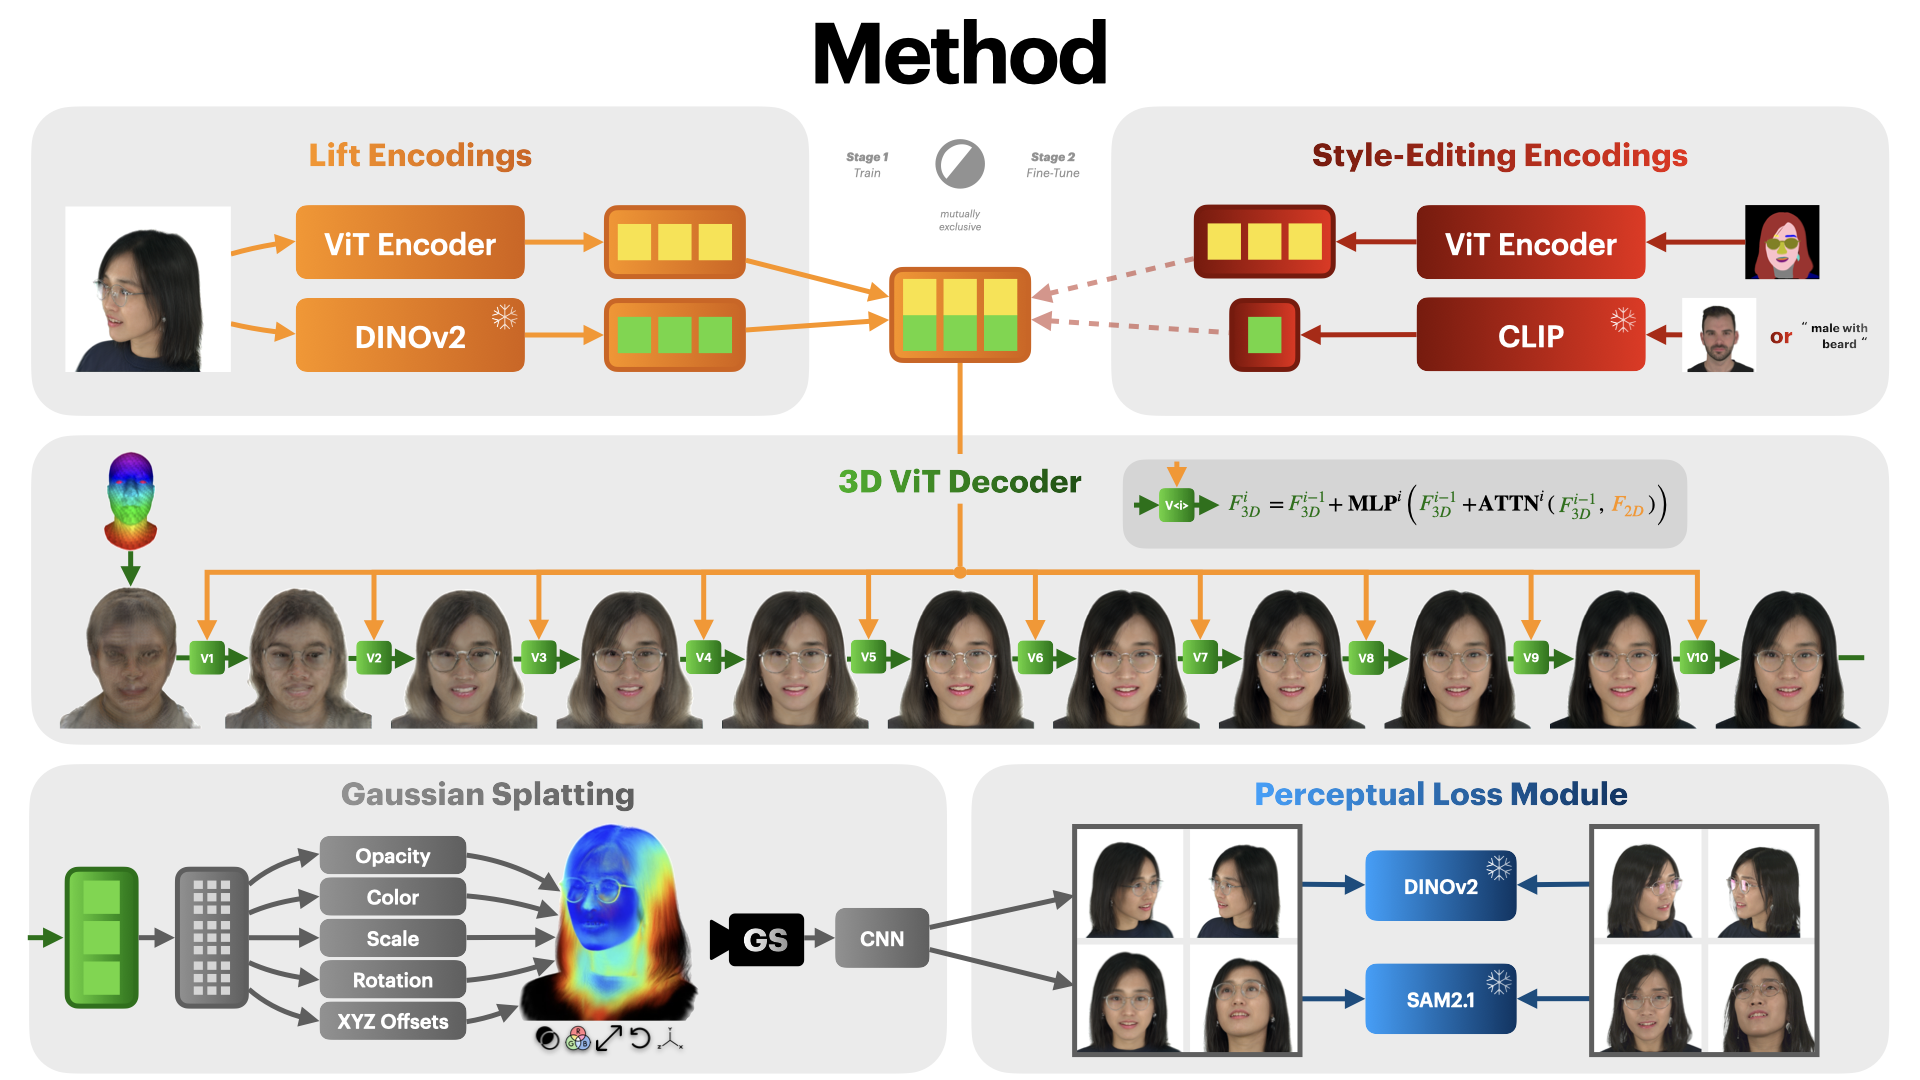
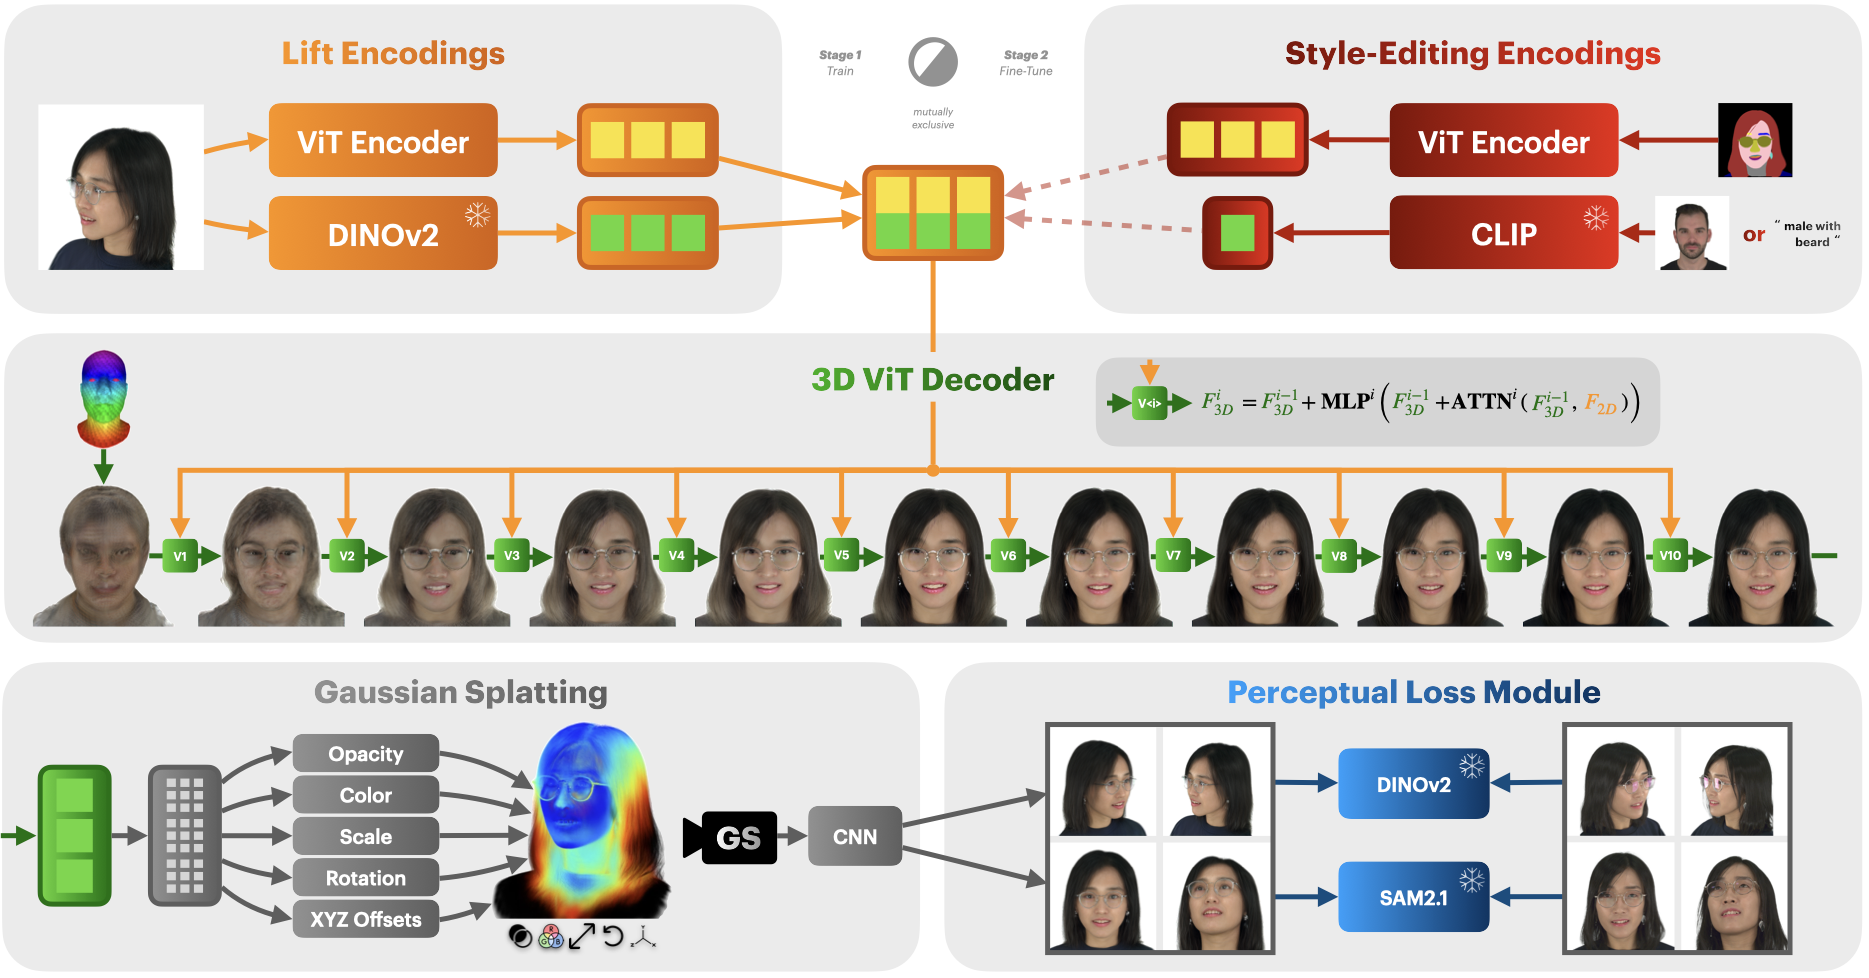
abstract and method

diff --git a/index.html b/index.html
@@ -52,30 +52,11 @@
   </div>
   <div class="navbar-menu">
     <div class="navbar-start" style="flex-grow: 1; justify-content: center;">
-      <a class="navbar-item" href="https://keunhong.com">
+      <a class="navbar-item" href="https://antoniooroz.github.io">
       <span class="icon">
           <i class="fas fa-home"></i>
       </span>
       </a>
-
-      <div class="navbar-item has-dropdown is-hoverable">
-        <a class="navbar-link">
-          More Research
-        </a>
-        <div class="navbar-dropdown">
-          <a class="navbar-item" href="https://hypernerf.github.io">
-            HyperNeRF
-          </a>
-          <a class="navbar-item" href="https://nerfies.github.io">
-            Nerfies
-          </a>
-          <a class="navbar-item" href="https://latentfusion.github.io">
-            LatentFusion
-          </a>
-          <a class="navbar-item" href="https://photoshape.github.io">
-            PhotoShape
-          </a>
-        </div>
       </div>
     </div>
 
@@ -153,76 +134,10 @@
   </div>
 </section>
 
-<section class="hero teaser">
-  <div class="container is-max-desktop">
-    <div class="hero-body">
-      <video id="teaser" autoplay muted loop playsinline height="100%">
-        <source src="./static/videos/teaser.mp4"
-                type="video/mp4">
-      </video>
-      <h2 class="subtitle has-text-centered">
-        <span class="dnerf">Nerfies</span> turns selfie videos from your phone into
-        free-viewpoint
-        portraits.
-      </h2>
-    </div>
-  </div>
-</section>
-
-
 <section class="hero is-light is-small">
   <div class="hero-body">
     <div class="container">
-      <div id="results-carousel" class="carousel results-carousel">
-        <div class="item item-steve">
-          <video poster="" id="steve" autoplay controls muted loop playsinline height="100%">
-            <source src="./static/videos/steve.mp4"
-                    type="video/mp4">
-          </video>
-        </div>
-        <div class="item item-chair-tp">
-          <video poster="" id="chair-tp" autoplay controls muted loop playsinline height="100%">
-            <source src="./static/videos/chair-tp.mp4"
-                    type="video/mp4">
-          </video>
-        </div>
-        <div class="item item-shiba">
-          <video poster="" id="shiba" autoplay controls muted loop playsinline height="100%">
-            <source src="./static/videos/shiba.mp4"
-                    type="video/mp4">
-          </video>
-        </div>
-        <div class="item item-fullbody">
-          <video poster="" id="fullbody" autoplay controls muted loop playsinline height="100%">
-            <source src="./static/videos/fullbody.mp4"
-                    type="video/mp4">
-          </video>
-        </div>
-        <div class="item item-blueshirt">
-          <video poster="" id="blueshirt" autoplay controls muted loop playsinline height="100%">
-            <source src="./static/videos/blueshirt.mp4"
-                    type="video/mp4">
-          </video>
-        </div>
-        <div class="item item-mask">
-          <video poster="" id="mask" autoplay controls muted loop playsinline height="100%">
-            <source src="./static/videos/mask.mp4"
-                    type="video/mp4">
-          </video>
-        </div>
-        <div class="item item-coffee">
-          <video poster="" id="coffee" autoplay controls muted loop playsinline height="100%">
-            <source src="./static/videos/coffee.mp4"
-                    type="video/mp4">
-          </video>
-        </div>
-        <div class="item item-toby">
-          <video poster="" id="toby" autoplay controls muted loop playsinline height="100%">
-            <source src="./static/videos/toby2.mp4"
-                    type="video/mp4">
-          </video>
-        </div>
-      </div>
+      
     </div>
   </div>
 </section>
@@ -235,33 +150,7 @@
       <div class="column is-four-fifths">
         <h2 class="title is-3">Abstract</h2>
         <div class="content has-text-justified">
-          <p>
-            We present the first method capable of photorealistically reconstructing a non-rigidly
-            deforming scene using photos/videos captured casually from mobile phones.
-          </p>
-          <p>
-            Our approach augments neural radiance fields
-            (NeRF) by optimizing an
-            additional continuous volumetric deformation field that warps each observed point into a
-            canonical 5D NeRF.
-            We observe that these NeRF-like deformation fields are prone to local minima, and
-            propose a coarse-to-fine optimization method for coordinate-based models that allows for
-            more robust optimization.
-            By adapting principles from geometry processing and physical simulation to NeRF-like
-            models, we propose an elastic regularization of the deformation field that further
-            improves robustness.
-          </p>
-          <p>
-            We show that <span class="dnerf">Nerfies</span> can turn casually captured selfie
-            photos/videos into deformable NeRF
-            models that allow for photorealistic renderings of the subject from arbitrary
-            viewpoints, which we dub <i>"nerfies"</i>. We evaluate our method by collecting data
-            using a
-            rig with two mobile phones that take time-synchronized photos, yielding train/validation
-            images of the same pose at different viewpoints. We show that our method faithfully
-            reconstructs non-rigidly deforming scenes and reproduces unseen views with high
-            fidelity.
-          </p>
+          We present PercHead, a method for single-image 3D head reconstruction and semantic 3D editing — two tasks that are inherently challenging due to severe view occlusions, weak perceptual supervision, and the ambiguity of editing in 3D space. We develop a uniﬁed base model for reconstructing view-consistent 3D heads from a single input image. The model employs a dual-branch encoder followed by a ViT-based decoder that lifts 2D features into 3D space through iterative cross-attention. Rendering is performed using Gaussian Splatting. At the heart of our approach is a novel perceptual supervision strategy based on DINOv2 and SAM2.1, which provides rich, generalized signals for both geometric and appearance fidelity. Our model achieves state-of-the-art performance in novel-view synthesis and, furthermore, exhibits exceptional robustness to extreme viewing angles compared to established baselines. Furthermore, this base model can be seamlessly extended for semantic 3D editing by swapping the encoder and ﬁnetuning the network. In this variant, we disentangle geometry and style through two distinct input modalities: a segmentation map to control geometry and either a text prompt or a reference image to specify appearance. We highlight the intuitive and powerful 3D editing capabilities of our model through a lightweight, interactive GUI, where users can effortlessly sculpt geometry by drawing segmentation maps and stylize appearance via natural language or image prompts.
         </div>
       </div>
     </div>
@@ -269,6 +158,7 @@
 
     <div class="columns is-centered has-text-centered">
       <div class="column is-four-fifths">
+        <h2 class="title is-3">Method</h2>
         <figure class="image">
           <img src="./static/images/method.png"
                alt="Overview of our method showing the reconstruction and editing pipelines.">
